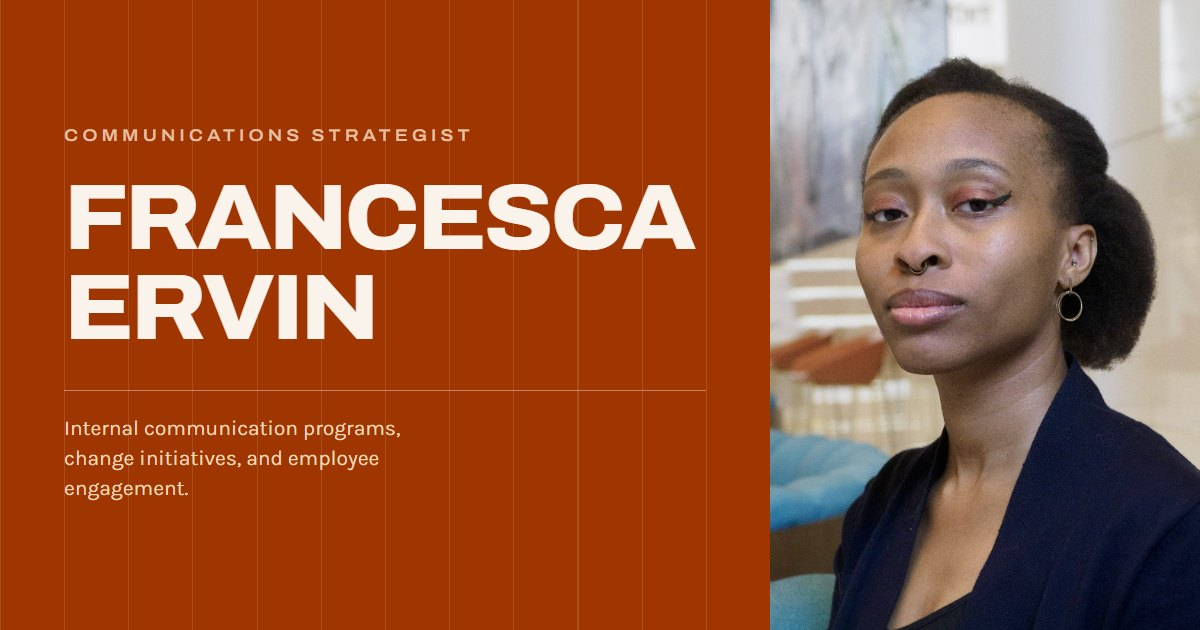
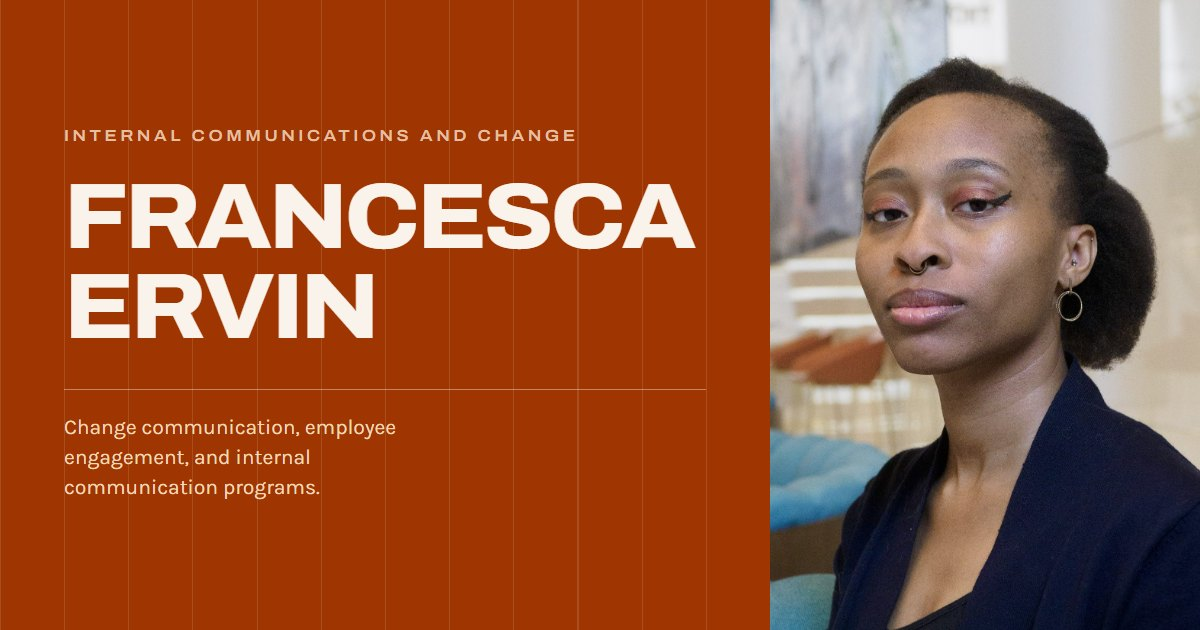
Reposition around internal communication and change
Targets senior employee-communication roles in a consultancy setting,
which is the Aon job without the benefits subject matter.

The health and wealth work is reframed rather than removed. It is the
strongest evidence there is, because benefits and pay transparency are
genuinely hard communication problems: unwanted, dense, regulated, and
consequential. So the claim is now about the difficulty rather than the
domain, and a second paragraph makes that explicit.

- Title, eyebrow and preview card lead with the discipline recruiters
  search for rather than the generic "communications strategist".
- Aon bullets reorder so client advisory and on-time delivery lead, the
  two things an agency actually buys. Benefits moves to fifth: present
  and findable, no longer the headline.
- Role subtitles lead with discipline; Actara leads with owning the
  whole function.
- Sectors list names sectors instead of a practice area. Practice leads
  with change communication.
- Adds change communication to the capability list, since every
  relevant job description uses that exact phrase.

No availability or "seeking work" copy: she is currently employed and
the site is public to her colleagues. That signal belongs in LinkedIn's
recruiter-only setting, not here.

Claude-Session: https://claude.ai/code/session_011GvnKeKgPYShGVxcLWPAK6

diff --git a/index.html b/index.html
@@ -6,7 +6,7 @@
      fully readable if the script fails or is blocked. -->
 <script>document.documentElement.classList.add("js");</script>
 <meta name="viewport" content="width=device-width, initial-scale=1, viewport-fit=cover">
-<title>Francesca Ervin — Communications Strategist</title>
+<title>Francesca Ervin — Internal Communications and Change</title>
 <meta name="description" content="Francesca Ervin is a communications professional with seven years of experience building internal communication programs, leading change initiatives, and developing employee engagement strategies.">
 <meta name="author" content="Francesca Ervin">
 
@@ -15,16 +15,16 @@
 <meta property="og:type" content="profile">
 <meta property="og:site_name" content="Francesca Ervin">
 <meta property="og:url" content="https://femalephenom.github.io/">
-<meta property="og:title" content="Francesca Ervin — Communications Strategist">
+<meta property="og:title" content="Francesca Ervin — Internal Communications and Change">
 <meta property="og:description" content="Seven years building internal communication programs, leading change initiatives, and developing employee engagement strategies.">
 <meta property="og:image" content="https://femalephenom.github.io/img/og.jpg">
 <meta property="og:image:type" content="image/jpeg">
 <meta property="og:image:width" content="1200">
 <meta property="og:image:height" content="630">
-<meta property="og:image:alt" content="Francesca Ervin, communications strategist">
+<meta property="og:image:alt" content="Francesca Ervin, internal communications and change">
 
 <meta name="twitter:card" content="summary_large_image">
-<meta name="twitter:title" content="Francesca Ervin — Communications Strategist">
+<meta name="twitter:title" content="Francesca Ervin — Internal Communications and Change">
 <meta name="twitter:description" content="Seven years building internal communication programs, leading change initiatives, and developing employee engagement strategies.">
 <meta name="twitter:image" content="https://femalephenom.github.io/img/og.jpg">
 
@@ -59,7 +59,7 @@
   <div class="hero-rules" aria-hidden="true"></div>
   <div class="wrap hero-inner">
 
-    <p class="eyebrow reveal" style="--d:0ms">Communications strategist</p>
+    <p class="eyebrow reveal" style="--d:0ms">Internal communications and change</p>
 
     <h1 class="hero-name">
       <span class="hero-line reveal" style="--d:80ms">Francesca</span>
@@ -113,6 +113,13 @@
         instinct with an organized, analytical approach.
       </p>
 
+      <p class="lede lede-second">
+        Much of that has been at the hard end: retirement plans, total rewards,
+        pay transparency, corporate transactions. Messages nobody wants to open,
+        sent to tens of thousands of people who have to act on them. The subject
+        matter changes from client to client. The problem rarely does.
+      </p>
+
       <dl class="facts">
       <div>
         <dt>Experience</dt>
@@ -120,11 +127,11 @@
       </div>
       <div>
         <dt>Sectors</dt>
-        <dd>Health, wealth and benefits, healthcare, higher education, fashion</dd>
+        <dd>Professional services, healthcare, higher education, fashion technology</dd>
       </div>
       <div>
         <dt>Practice</dt>
-        <dd>Change management, total rewards, employee experience, brand voice</dd>
+        <dd>Change communication, employee engagement, internal channels, brand voice</dd>
       </div>
         <div>
           <dt>Education</dt>
@@ -153,7 +160,7 @@
         </div>
         <div class="entry-body">
           <h3 class="entry-role">Head of Communications</h3>
-          <p class="entry-gloss">Fashion show management platform. Founding team.</p>
+          <p class="entry-gloss">Fashion show management platform. Built the function from nothing.</p>
           <ul class="entry-list">
             <li>Establish brand voice, messaging frameworks, and communications strategy from the ground up.</li>
             <li>Develop and manage external content across social media, platform pages, and marketing materials for designers, producers, and talent professionals.</li>
@@ -171,14 +178,14 @@
         </div>
         <div class="entry-body">
           <h3 class="entry-role">Consultant, Strategic Communication</h3>
-          <p class="entry-gloss">Health, wealth, and benefits practice.</p>
+          <p class="entry-gloss">Client-facing change and employee communication at enterprise scale.</p>
           <ul class="entry-list">
-            <li>Guided and influenced clients’ internal communication strategy across the health, wealth, and benefits spaces.</li>
-            <li>Created employee education, marketing, and change strategies around health and retirement benefits, total rewards, and pay transparency for large-scale HR initiatives and corporate transactions.</li>
-            <li>Conducted leadership interviews to assure message alignment and ascertain employee sentiment.</li>
-            <li>Led and managed complex programs to ensure on-time delivery against agreed-upon goals.</li>
-            <li>Coached team members through project execution and partnered with People teams to align internal communications, employee experience, and organizational development.</li>
+            <li>Guided and influenced clients’ internal communication strategy.</li>
+            <li>Led and managed complex programs across concurrent client accounts to ensure on-time delivery against agreed-upon goals.</li>
             <li>Designed and executed multi-channel engagement campaigns supporting company initiatives, culture building, and change management.</li>
+            <li>Conducted leadership interviews to assure message alignment and ascertain employee sentiment.</li>
+            <li>Created employee education, marketing, and change strategies around health and retirement benefits, total rewards, and pay transparency for large-scale HR initiatives and corporate transactions.</li>
+            <li>Coached team members through project execution and partnered with People teams to align internal communications, employee experience, and organizational development.</li>
           </ul>
         </div>
       </li>
@@ -255,6 +262,7 @@
         <h3 id="cap-strategy" class="cap-title"><span class="cap-num">01</span> Strategy</h3>
         <ul class="cap-list">
           <li>Internal communication</li>
+          <li>Change communication</li>
           <li>Channel management</li>
           <li>Cross-functional team management</li>
           <li>Project management</li>
@@ -265,7 +273,7 @@
       </section>
 
       <section class="cap reveal" aria-labelledby="cap-research">
-        <h3 id="cap-research" class="cap-title"><span class="cap-num">02</span> Research and analysis</h3>
+        <h3 id="cap-research" class="cap-title"><span class="cap-num">02</span> Research and measurement</h3>
         <ul class="cap-list">
           <li>Data analysis</li>
           <li>Qualitative and quantitative research</li>
@@ -334,8 +342,9 @@
 
     <div class="contact-cols">
       <p class="contact-copy reveal" style="--d:90ms">
-        Open to communications strategy, change and engagement programs,
-        and editorial work. The fastest way to reach me is email.
+        I work on internal communication programs, change initiatives and
+        employee engagement, and I am always glad to talk about that work.
+        The fastest way to reach me is email.
       </p>
 
       <div class="contact-reach reveal" style="--d:180ms">

diff --git a/styles.css b/styles.css
@@ -337,6 +337,13 @@ a{ color: inherit; }
   max-width: var(--measure);
   text-wrap: pretty;
 }
+/* The reframe paragraph sits a step down from the opening claim. */
+.lede-second{
+  margin-top: 1.1em;
+  font-size: clamp(1.05rem, 0.98rem + 0.4vw, 1.25rem);
+  line-height: 1.55;
+  color: var(--ink-soft);
+}
 
 .facts{
   display: grid;
